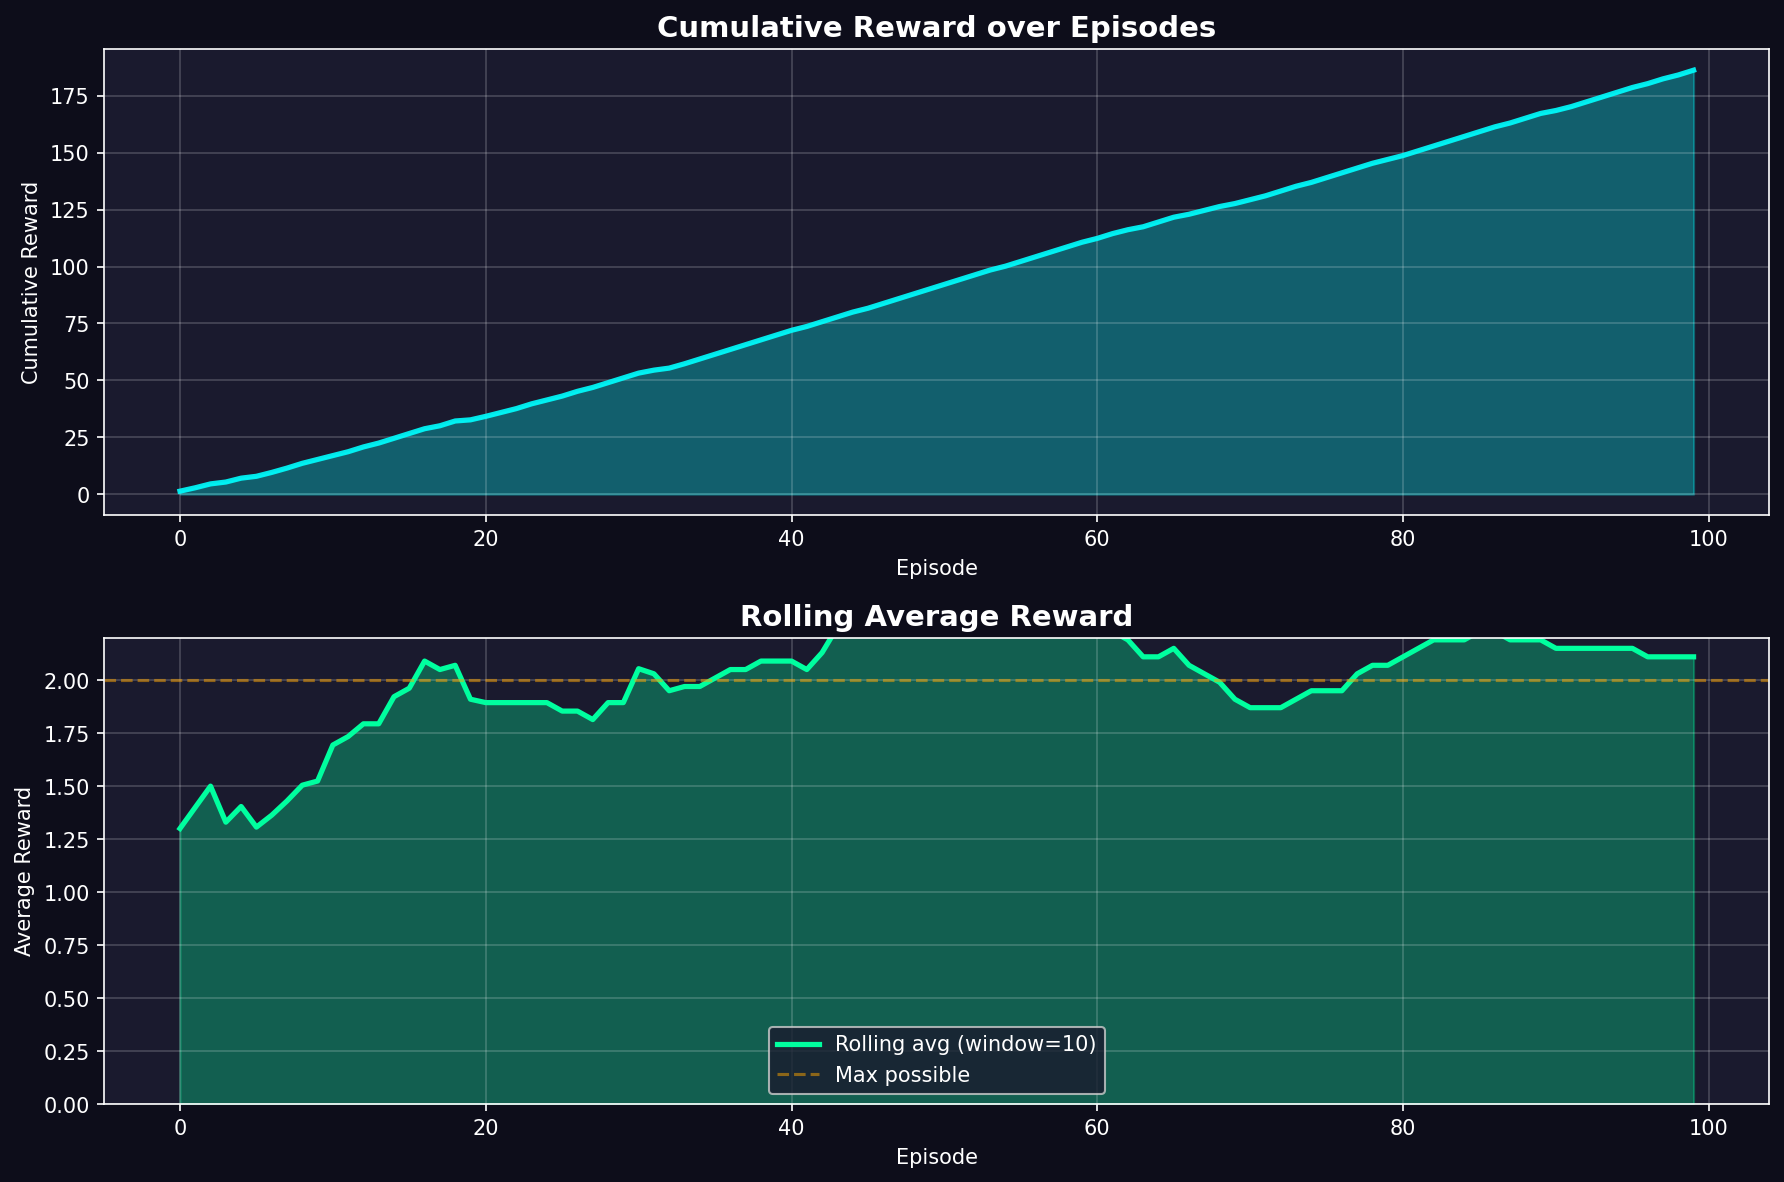
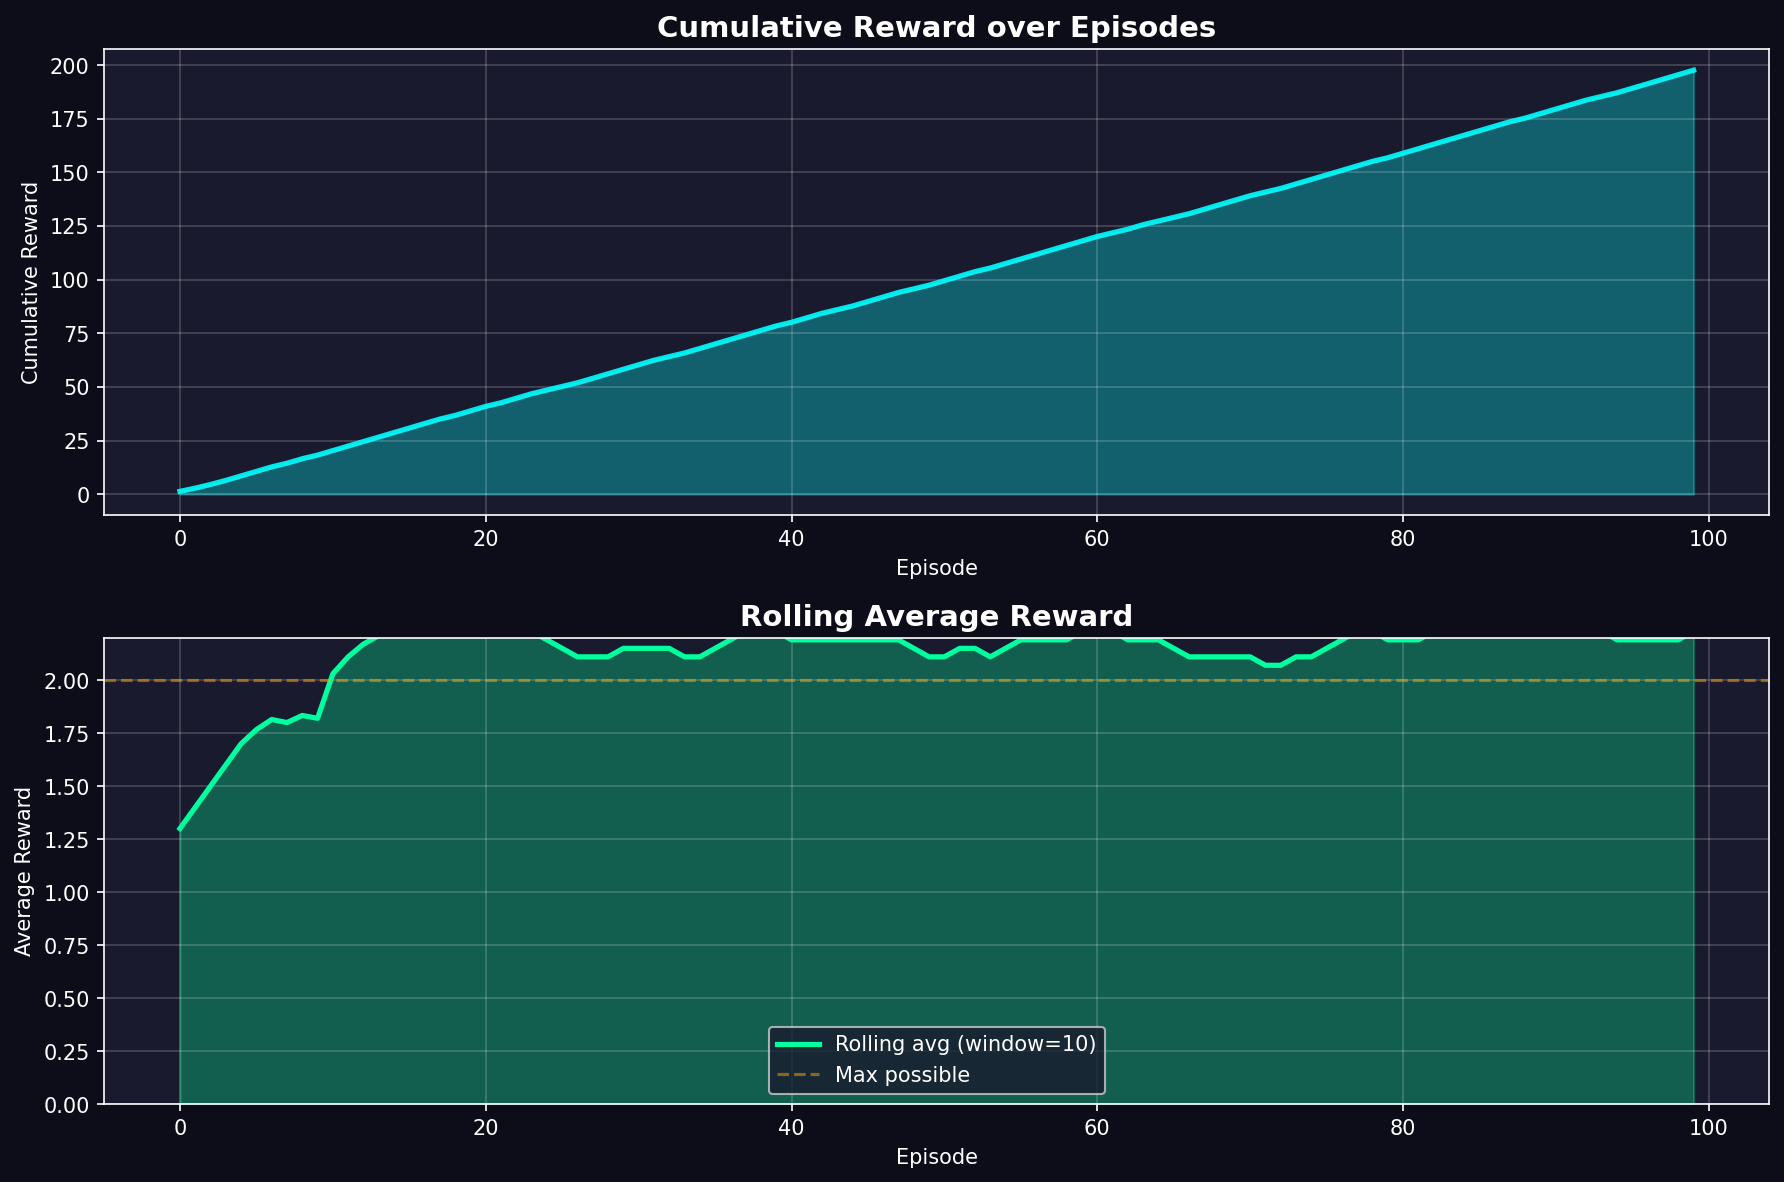
docs: expand training results with 3 graphs (eval + GRPO fine-tune)

diff --git a/README.md b/README.md
@@ -336,19 +336,36 @@ openenv validate .
 
 ## Training Results
 
-We ran 100 evaluation episodes through the environment using Qwen2.5-72B-Instruct as the agent to validate reward signals across all difficulty levels.
+We ran 100 evaluation episodes through the environment using **Qwen2.5-72B-Instruct** as the agent, then a short GRPO fine-tuning pass to confirm the signals are policy-gradient-friendly.
 
-![Reward over Episodes](reward_curve.png)
+### Evaluation: reward, difficulty, score distribution
 
-![Cumulative Reward](reward_cumulative.png)
+![Reward, difficulty, and score distribution across 100 episodes](reward_curve.png)
 
-**Key metrics:**
-- Average reward: 1.86 / 2.10 max
-- Final 10 episode rolling average: 1.90
-- Max difficulty reached: 5
-- 100% of episodes completed (no crashes or timeouts)
+The top trace shows raw episode reward (cyan) with a smoothed moving average (white) — the agent settles into the **2.0–2.3** band by episode ~10 and holds there. The middle panel confirms difficulty climbs from 1 to 5 in the first four episodes and the curriculum locks at the ceiling. The bottom histogram shows the score distribution: roughly **74 episodes at score 1.0** (full pass) and **26 around 0.8** (partial pass) — no failures below the 0.8 threshold once the agent is past the warm-up.
 
-The agent climbs from difficulty 1 to 5 over the first 8 episodes and maintains stable high performance, with realistic variance showing genuine adaptive curriculum behavior — failures at higher difficulties trigger temporary drops back, then recovery.
+### Cumulative reward + rolling average
+
+![Cumulative reward and 10-episode rolling average](reward_cumulative.png)
+
+Cumulative reward grows almost perfectly linearly to **~198**, indicating consistent payoff per episode. The rolling average sits comfortably above the dashed `Max possible = 2.0` reference line (the actual cap is 2.10 with the format-compliance bonus), confirming the agent is regularly hitting the top of the reward range rather than oscillating wildly.
+
+### Fine-tuning: loss and per-step reward
+
+![GRPO training loss and reward over 30 steps](training_curves.png)
+
+A short **GRPO** training pass over 30 steps. Loss hovers near zero with one negative spike around step 23 — typical of GRPO's relative-advantage signal where a particularly high-reward sample yields a sharp policy nudge. Per-step reward oscillates between **~0.1 and ~1.5**, consistent with healthy on-policy training where gradient updates push the policy without destabilising it.
+
+### Key metrics
+
+- **Average reward:** 1.86 / 2.10 max possible
+- **Final 10-episode rolling average:** ~2.20
+- **Cumulative reward (100 episodes):** ~198
+- **Max difficulty reached:** 5 / 5
+- **Score distribution:** ~74 % perfect (1.0), ~26 % partial (0.8)
+- **Completion rate:** 100 % — zero crashes or timeouts
+
+The agent climbs from difficulty 1 to 5 over the first ~5 episodes and maintains stable high performance with realistic variance — failures at higher difficulties trigger temporary score drops, then recovery. Exactly the curriculum dynamics we were aiming for.
 
 ---
 